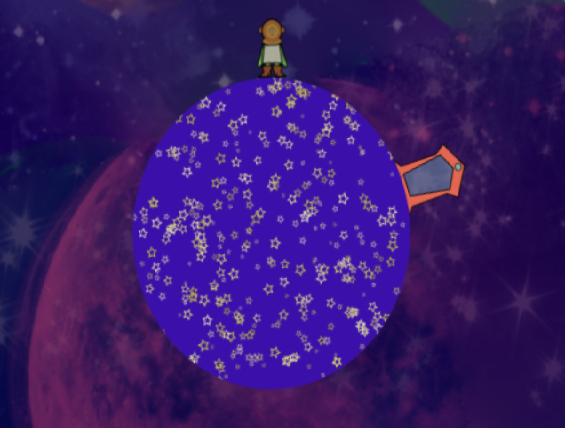
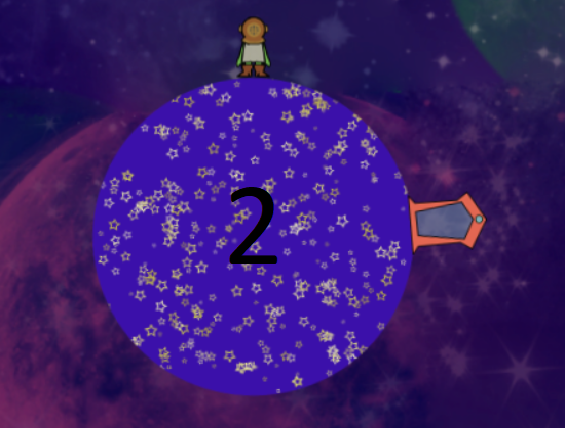
up to level 3 columns aligned

diff --git a/src/levelselect.js b/src/levelselect.js
@@ -26,6 +26,7 @@ levelSelect.prototype = {
         game.load.image("space", "assets/game/seamlessspacebright.png");
         game.load.image("one", "assets/levelSelect/1.png");
         game.load.image("two", "assets/levelSelect/2.png");
+        game.load.image("three", "assets/levelSelect/3.png");
         game.load.image("background", "assets/levelSelect/background.png");
 
     },
@@ -44,18 +45,26 @@ levelSelect.prototype = {
         oneButton.scale.x = 0.3;
         oneButton.scale.y = 0.3;
         oneButton.inputEnabled = true;
-//        oneButton.onInputDown(startLevel, this);
         
         //Level Two
-        twoButtonBG = game.add.button(271,191,"background",buttonTwo,this);
+        twoButtonBG = game.add.button(256,191,"background",buttonTwo,this);
         twoButtonBG.scale.x = 0.3;
         twoButtonBG.scale.y = 0.3;
         
-        twoButton = game.add.button(280,200,"two",buttonTwo,this);
+        twoButton = game.add.button(265,200,"two",buttonTwo,this);
         twoButton.scale.x = 0.3;
         twoButton.scale.y = 0.3;
         twoButton.inputEnabled = true;
-//        twoButton.onInputDown(startLevel, this);
+        
+        //Level Three
+        threeButtonBG = game.add.button(471,191,"background",buttonTwo,this);
+        threeButtonBG.scale.x = 0.3;
+        threeButtonBG.scale.y = 0.3;
+        
+        threeButton = game.add.button(480,200,"three",buttonThree,this);
+        threeButton.scale.x = 0.3;
+        threeButton.scale.y = 0.3;
+        threeButton.inputEnabled = true;
         
 
 
@@ -85,6 +94,10 @@ function buttonOne() {
 
 function buttonTwo() {
     game.state.start("PlayGame", true, false, currentLevel = 1);
+}
+
+function buttonThree() {
+    game.state.start("PlayGame", true, false, currentLevel = 2);
 }
 
 //function replayTheGame(start){
